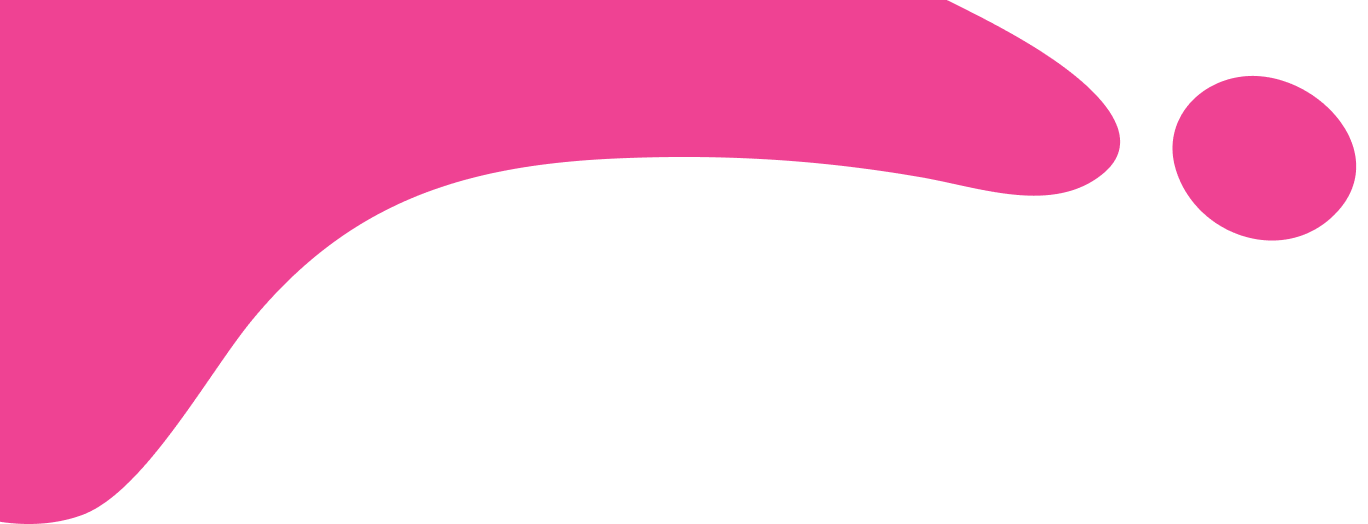
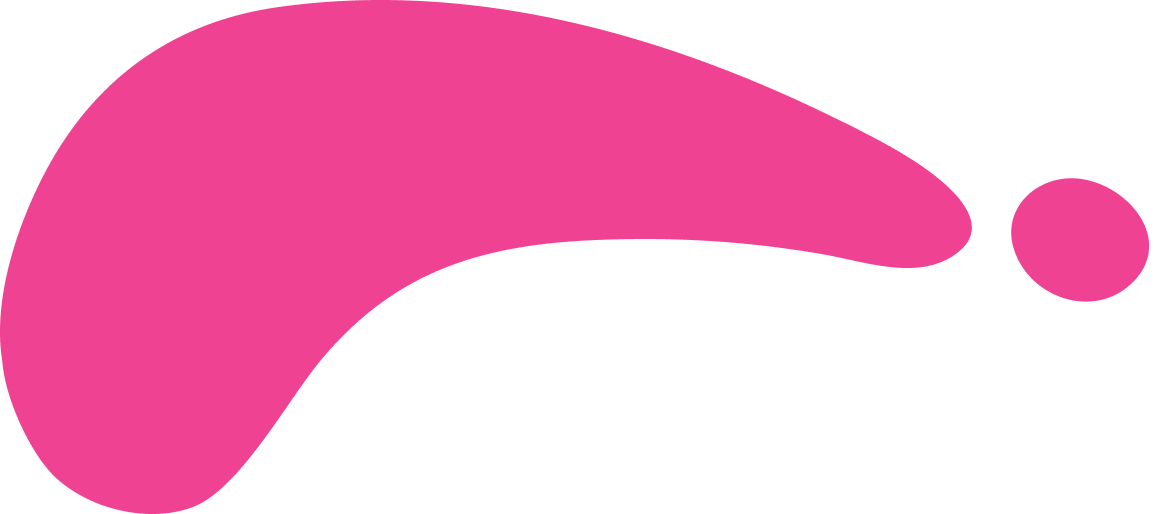
question mark fixes

Changed region(s): [[0.0, 0.0, 0.9948, 1.0], [0.0, 0.0, 0.2798, 0.5603]]

diff --git a/src/components/SplineSection.jsx b/src/components/SplineSection.jsx
@@ -1,43 +1,111 @@
+// // import React from "react";
+
+// // export default function SplineSection() {
+// //   return (
+// //     <section className="relative w-full h-[500px] bg-black overflow-hidden rounded-xl">
+// //       {/* Spline Iframe */}
+// //       <iframe
+// //         src="https://my.spline.design/untitled-bae1056a6b8f8ce302b10c1a49d120cf/" // sample scene
+// //         frameBorder="0"
+// //         className="absolute top-0 left-0 w-full h-full"
+// //         title="Spline Animation"
+// //       ></iframe>
+
+// //       {/* Curved Text */}
+// //       <svg
+// //         className="absolute inset-0 w-full h-full pointer-events-none"
+// //         viewBox="0 0 1200 500"
+// //         xmlns="http://www.w3.org/2000/svg"
+// //       >
+// //         <path
+// //           id="curve"
+// //           d="M 100 400 Q 600 100 1100 400"
+// //           fill="transparent"
+// //         />
+// //         <text
+// //           fill="#ffe600"
+// //           fontSize="30"
+// //           fontFamily="Space Grotesk, sans-serif"
+// //           fontWeight="500"
+// //         >
+// //           <textPath href="#curve" startOffset="0%">
+// //             We're the fun friends your brand didn't know it needed
+// //           </textPath>
+// //         </text>
+// //       </svg>
+// //     </section>
+// //   );
+// // }
+
+
+// import React from "react";
+// import Main from "../assets/Main.png";
+// import MainMobile from "../assets/MainMobile.png";
+
+// export default function SplineSection() {
+//   return (
+//     <section className="relative w-full min-h-[600px] p-6 bg-black  rounded-xl">
+//       {/* Desktop Image */}
+//       <img
+//         src={Main}
+//         alt="Visual Desktop"
+//         className="hidden md:block absolute top-0 left-0 w-full h-full bg-cover bg-no-repeat bg-center p-2"
+//       />
+
+//       {/* Mobile Image */}
+    //   <img
+    //     src={MainMobile}
+    //     alt="Visual Mobile"
+    //     className="block md:hidden absolute top-0 left-0 w-full h-full bg-cover bg-no-repeat bg-center"
+    //   />
+//     </section>
+//   );
+// }
+
+
 import React from "react";
 import HeroImage from "../assets/PinkMark.png"; // Replace with your actual image file
 import MainMobile from "../assets/MainMobile.png";
 
 export default function HeroSection() {
   return (
-    <section className="relative w-full h-[500px] overflow-hidden rounded-xl bg-black">
+    <section className="relative w-full h-[500px] overflow-hidden rounded-xl bg-black ">
       {/* Background Image */}
       <img
         src={MainMobile}
         alt="Visual Mobile"
-        className="block md:hidden absolute top-0 left-0 w-full h-full object-cover"
-      />
+        className="block md:hidden absolute top-0 left-0 w-full h-full bg-cover bg-no-repeat bg-center  "
+        />
       <img
         src={HeroImage}
         alt="Hero Background"
-        className="hidden md:block absolute top-0 left-0 w-full h-full object-cover p-2"
+        className="hidden md:block absolute top-0 left-0 w-full h-full bg-cover bg-no-repeat bg-center p-2"
       />
 
-      <svg
-        className="hidden md:block absolute inset-0 w-full h-full pointer-events-none"
-        viewBox="0 0 1372 426"
-        xmlns="http://www.w3.org/2000/svg"
-      >
-        <path
-          id="textPath"
-          d="M43.3 361.5C105.4 464.3 392.7 411.3 529.1 327.8C665.4 244.4 745 203.1 1045.6 238.4C1346.2 273.7 1530.1 127.1 1223.1 30.9C916.1 -65.4 452.5 -74.4 238.6 13.9C52.2 89.1 -18.9 258.8 43.3 361.5Z"
-          fill="transparent"
-        />
-        <text
-          fill="#ffe600"
-          fontSize="32"
-          fontFamily="Space Grotesk, sans-serif"
-          fontWeight="500"
-        >
-          <textPath href="#textPath" startOffset="12%">
-            We're the fun friends your brand didn't know it needed
-          </textPath>
-        </text>
-      </svg>
+<svg
+  className="hidden md:block absolute inset-0 w-full h-full pointer-events-none"
+  viewBox="0 0 1372 426"
+  xmlns="http://www.w3.org/2000/svg"
+>
+  <path
+    id="textPath"
+    d="M43.3 411.5C105.4 514.3 392.7 461.3 529.1 377.8C665.4 294.4 745 253.1 1045.6 288.4C1346.2 323.7 1530.1 177.1 1223.1 80.9C916.1 -15.4 452.5 -24.4 238.6 63.9C52.2 139.1 -18.9 308.8 43.3 411.5Z"
+    fill="transparent"
+  />
+  <text
+    fill="#ffe600"
+    fontSize="32"
+    fontFamily="Space Grotesk, sans-serif"
+    fontWeight="500"
+  >
+    <textPath href="#textPath" startOffset="15%">
+      We're the fun friends your brand didn't know it needed
+    </textPath>
+  </text>
+</svg>
+
+
     </section>
   );
 }
+
